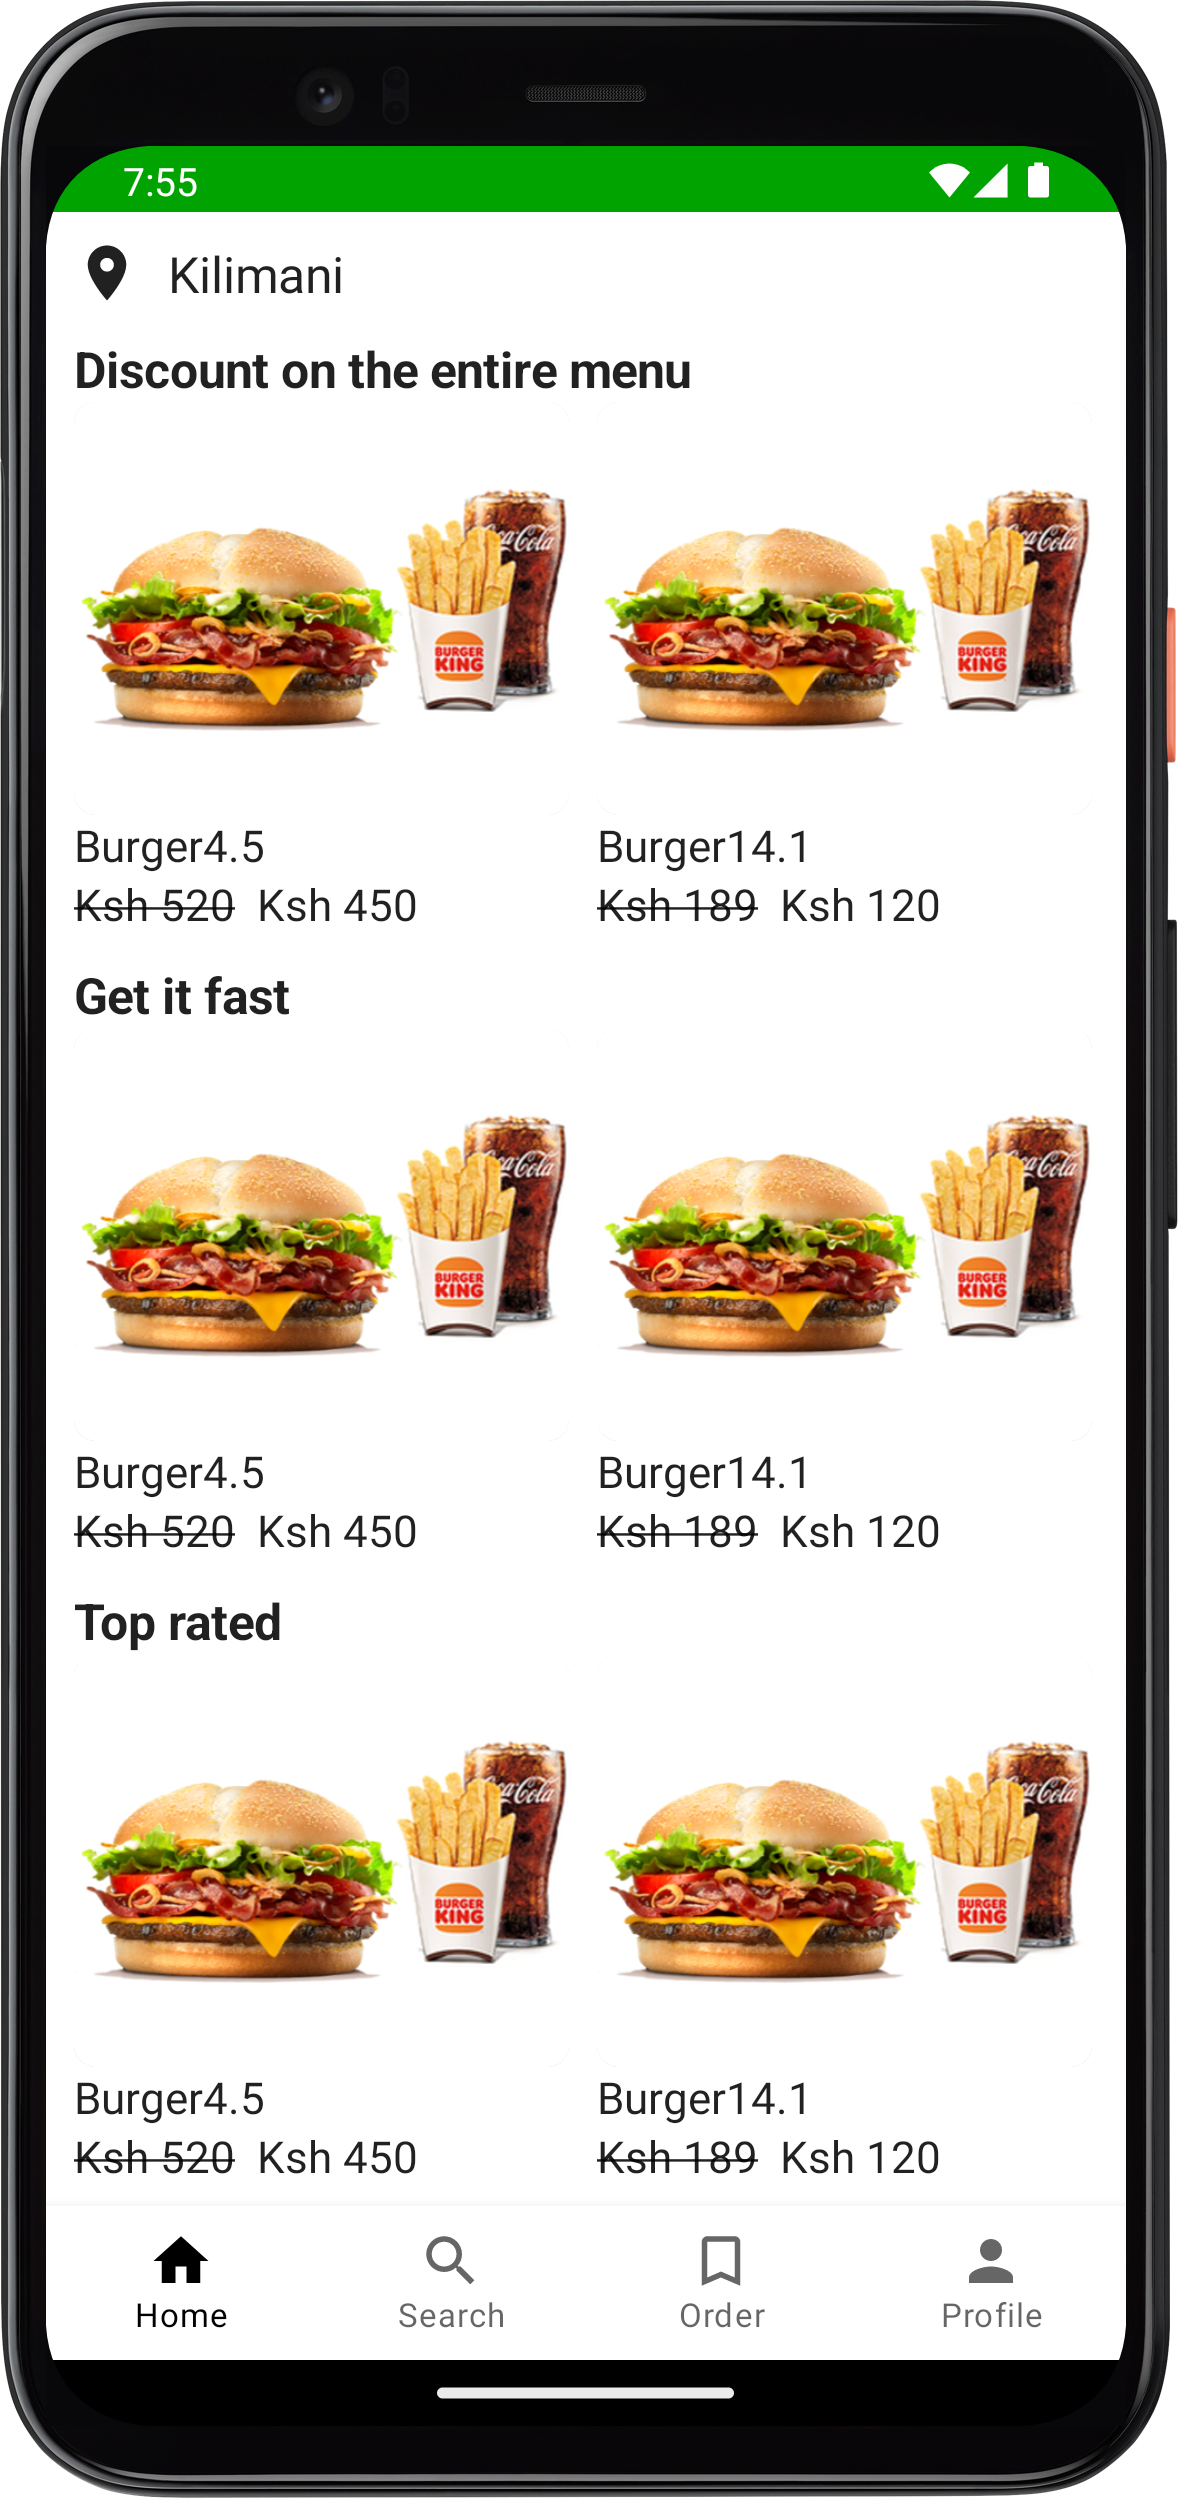
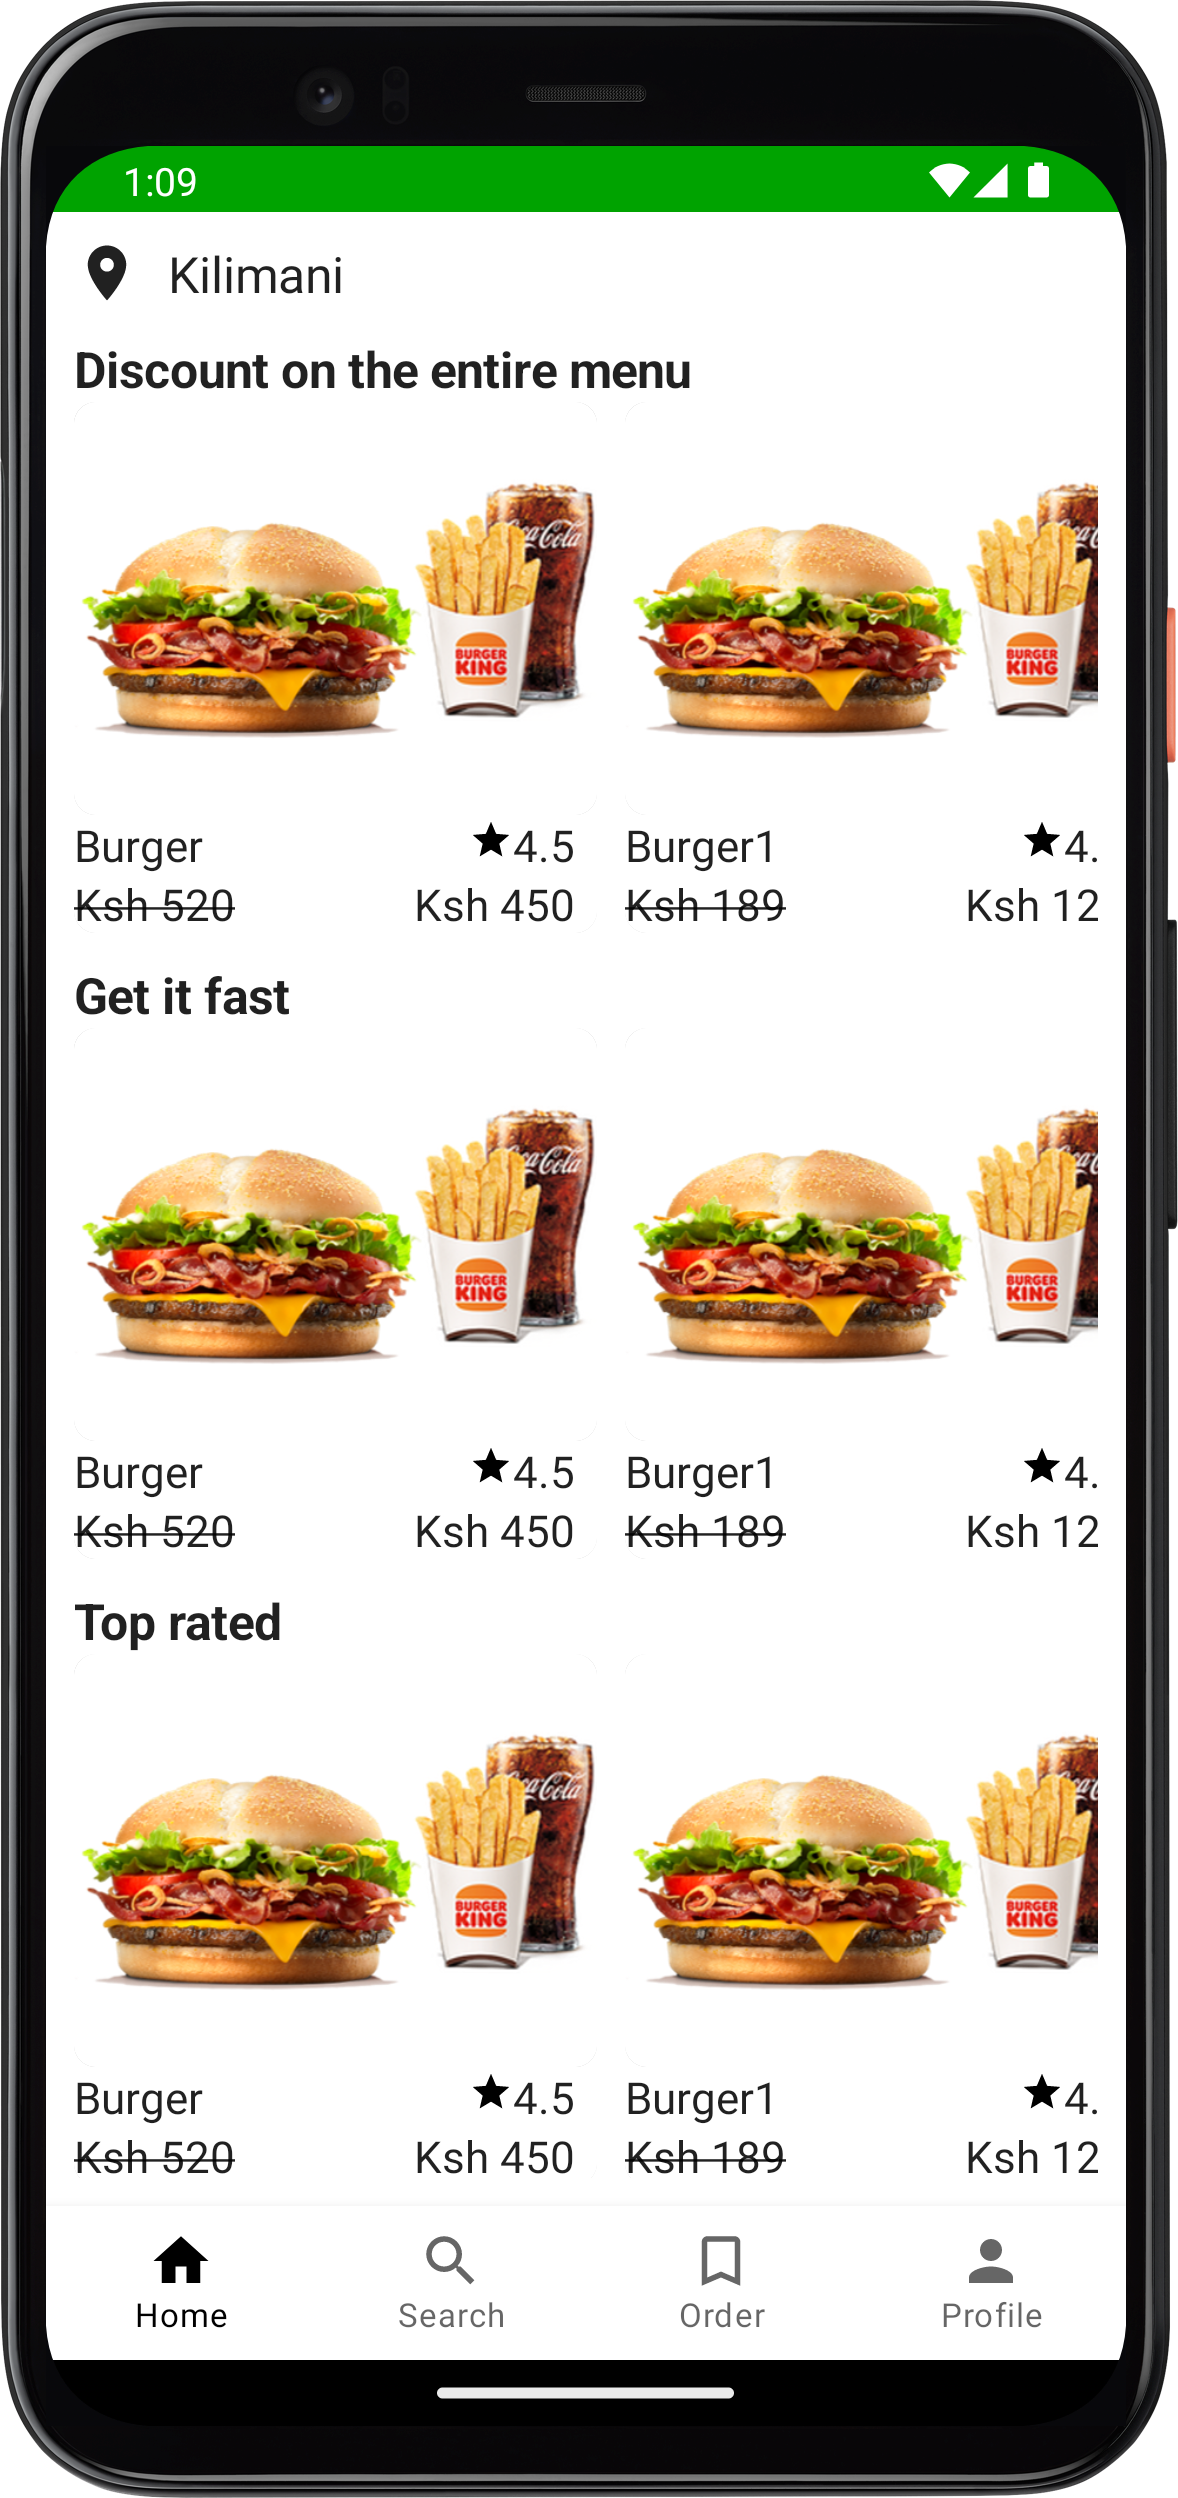
ui changes

diff --git a/app/src/main/java/com/flexcode/boltfood/screens/home/HomeScreen.kt b/app/src/main/java/com/flexcode/boltfood/screens/home/HomeScreen.kt
@@ -1,25 +1,36 @@
 package com.flexcode.boltfood.screens.home
 
 import androidx.compose.foundation.Image
+import androidx.compose.foundation.background
 import androidx.compose.foundation.layout.*
 import androidx.compose.foundation.lazy.LazyColumn
 import androidx.compose.foundation.lazy.LazyRow
 import androidx.compose.foundation.lazy.items
 import androidx.compose.foundation.rememberScrollState
 import androidx.compose.foundation.shape.RoundedCornerShape
+import androidx.compose.foundation.text.InlineTextContent
+import androidx.compose.foundation.text.appendInlineContent
 import androidx.compose.foundation.verticalScroll
 import androidx.compose.material.Card
 import androidx.compose.material.Icon
 import androidx.compose.material.Text
+import androidx.compose.material.icons.Icons
+import androidx.compose.material.icons.filled.Face
+import androidx.compose.material.icons.filled.Star
 import androidx.compose.runtime.Composable
 import androidx.compose.ui.Modifier
 import androidx.compose.ui.draw.clip
+import androidx.compose.ui.graphics.Color
 import androidx.compose.ui.res.painterResource
+import androidx.compose.ui.text.Placeholder
+import androidx.compose.ui.text.PlaceholderVerticalAlign
 import androidx.compose.ui.text.TextStyle
+import androidx.compose.ui.text.buildAnnotatedString
 import androidx.compose.ui.text.font.FontWeight
 import androidx.compose.ui.text.style.TextAlign
 import androidx.compose.ui.text.style.TextDecoration
 import androidx.compose.ui.tooling.preview.Preview
+import androidx.compose.ui.unit.TextUnit
 import androidx.compose.ui.unit.dp
 import androidx.compose.ui.unit.sp
 import com.flexcode.boltfood.R
@@ -40,7 +51,7 @@ fun HomeScreen() {
         Row(
             modifier = Modifier.fillMaxWidth()
         ) {
-            Icon(painterResource(id =R.drawable.ic_location ), contentDescription = null)
+            Icon(painterResource(id = R.drawable.ic_location), contentDescription = null)
             Spacer(modifier = Modifier.width(10.dp))
             Text(
                 text = "Kilimani",
@@ -53,19 +64,7 @@ fun HomeScreen() {
             fontSize = 18.sp,
             fontWeight = FontWeight.Bold
         )
-        LazyRow(
-            horizontalArrangement = Arrangement.spacedBy(10.dp)
-        ){
-            items(foodList){ item->
-                Row(
-                    modifier = Modifier.fillMaxWidth()
-                ) {
-                    ShowFoodItem(foodItem = item)
-                }
-
-            }
-
-        }
+        LazyRowItem()
 
 
         Spacer(modifier = Modifier.height(10.dp))
@@ -74,20 +73,7 @@ fun HomeScreen() {
             fontSize = 18.sp,
             fontWeight = FontWeight.Bold
         )
-        LazyRow(
-            horizontalArrangement = Arrangement.spacedBy(10.dp)
-        ){
-            items(foodList){ item->
-                Row(
-                    modifier = Modifier.fillMaxWidth()
-                ) {
-                    ShowFoodItem(foodItem = item)
-                }
-
-            }
-
-        }
-
+        LazyRowItem()
 
         Spacer(modifier = Modifier.height(10.dp))
 
@@ -97,19 +83,7 @@ fun HomeScreen() {
             fontWeight = FontWeight.Bold
         )
 
-        LazyRow(
-            horizontalArrangement = Arrangement.spacedBy(10.dp)
-        ){
-            items(foodList){ item->
-                Row(
-                    modifier = Modifier.fillMaxWidth()
-                ) {
-                    ShowFoodItem(foodItem = item)
-                }
-
-            }
-
-        }
+        LazyRowItem()
 
 
         Spacer(modifier = Modifier.height(10.dp))
@@ -118,19 +92,7 @@ fun HomeScreen() {
             fontSize = 18.sp,
             fontWeight = FontWeight.Bold
         )
-        LazyRow(
-            horizontalArrangement = Arrangement.spacedBy(10.dp)
-        ){
-            items(foodList){ item->
-                Row(
-                    modifier = Modifier.fillMaxWidth()
-                ) {
-                    ShowFoodItem(foodItem = item)
-                }
-
-            }
-
-        }
+        LazyRowItem()
 
 
         Spacer(modifier = Modifier.height(10.dp))
@@ -139,25 +101,13 @@ fun HomeScreen() {
             fontSize = 18.sp,
             fontWeight = FontWeight.Bold
         )
-        LazyRow(
-            horizontalArrangement = Arrangement.spacedBy(10.dp)
-        ){
-            items(foodList){ item->
-                Row(
-                    modifier = Modifier.fillMaxWidth()
-                ) {
-                    ShowFoodItem(foodItem = item)
-                }
-
-            }
-
-        }
+        LazyRowItem()
 
         LazyColumn(
             Modifier.height(500.dp),
             verticalArrangement = Arrangement.spacedBy(10.dp)
-        ){
-            items(foodList){ item->
+        ) {
+            items(foodList) { item ->
                 Row(
                     modifier = Modifier.fillMaxWidth()
                 ) {
@@ -168,8 +118,6 @@ fun HomeScreen() {
             }
 
         }
-
-
     }
 }
 
@@ -177,58 +125,110 @@ fun HomeScreen() {
 fun ShowFoodItem(
     foodItem: FoodItem
 ) {
-    Column() {
+    Card(
+        modifier = Modifier
+            .clip(RoundedCornerShape(8.dp))
+            .width(190.dp),
+                elevation = 4.dp
 
-        Card(
-            modifier =Modifier
-                .clip(RoundedCornerShape(8.dp)),
-            elevation = 4.dp
+    ) {
+        Column(
+            modifier = Modifier
+                .fillMaxWidth()
+                .clip(RoundedCornerShape(8.dp))
 
         ) {
-            Image(
-                painter = painterResource(id = foodItem.foodImage),
+            Card(
                 modifier = Modifier
-                    .width(180.dp)
-                    .height(150.dp),
-                contentDescription = null
-            )
+                    .clip(RoundedCornerShape(8.dp))
+
+            ) {
+                Image(
+                    painter = painterResource(id = foodItem.foodImage),
+                    modifier = Modifier
+                        .fillMaxWidth()
+                        .height(150.dp),
+                    contentDescription = null
+                )
+            }
+            Row(
+                modifier = Modifier.fillMaxWidth()
+            ) {
+                Text(
+                    text = foodItem.name,
+                    fontSize = 16.sp,
+                    modifier = Modifier.width(90.dp)
+                )
+                Spacer(modifier = Modifier.weight(1f))
+                val myId = "inlineContent"
+                val text = buildAnnotatedString {
+                    appendInlineContent(myId, "[icon]")
+                    append(foodItem.rating)
+
+                }
+
+                val inlineContent = mapOf(
+                    Pair(
+                        myId,
+                        InlineTextContent(
+                            Placeholder(
+                                width = 16.sp,
+                                height = 16.sp,
+                                placeholderVerticalAlign = PlaceholderVerticalAlign.AboveBaseline
+                            )
+                        ) {
+                            Icon(Icons.Filled.Star, "", tint = Color.Black)
+                        }
+                    )
+                )
+                Text(
+                    inlineContent = inlineContent,
+                    text = text,
+                    fontSize = 16.sp,
+                    textAlign = TextAlign.End,
+                    modifier = Modifier.width(90.dp)
+                        .padding(horizontal = 8.dp)
+                )
+            }
+            Row(
+                modifier = Modifier.fillMaxWidth(),
+                horizontalArrangement = Arrangement.SpaceAround
+            ) {
+                Text(
+                    text = foodItem.canceledPrice,
+                    fontSize = 16.sp,
+                    style = TextStyle(textDecoration = TextDecoration.LineThrough),
+                    modifier = Modifier.width(90.dp)
+                )
+
+                Spacer(modifier = Modifier.weight(1f))
+
+                Text(
+                    text = foodItem.price,
+                    fontSize = 16.sp,
+                    textAlign = TextAlign.End,
+                    modifier = Modifier
+                        .padding(horizontal = 8.dp)
+                        .width(90.dp)
+                )
+            }
         }
-        Row(
-            modifier = Modifier.fillMaxWidth()
-        ) {
-            Text(
-                text = foodItem.name,
-                fontSize = 16.sp,
-            )
-            Spacer(modifier = Modifier.weight(1f))
-            Text(
-                text = foodItem.rating,
-                fontSize = 16.sp,
-            )
-        }
-        Row(
-            modifier = Modifier.fillMaxWidth(),
-            horizontalArrangement = Arrangement.SpaceAround
-        ) {
-            Text(
-                text = foodItem.canceledPrice,
-                fontSize = 16.sp,
-                style = TextStyle(textDecoration = TextDecoration.LineThrough)
-            )
-
-            Spacer(modifier = Modifier.weight(1f))
-
-            Text(
-                text = foodItem.price,
-                fontSize = 16.sp,
-                textAlign = TextAlign.End,
-                modifier = Modifier.padding(horizontal = 8.dp)
-
-            )
-        }
-
     }
+}
 
+@Composable
+fun LazyRowItem() {
+    LazyRow(
+        horizontalArrangement = Arrangement.spacedBy(10.dp)
+    ) {
+        items(foodList) { item ->
+            Row(
+                modifier = Modifier.fillMaxWidth()
+            ) {
+                ShowFoodItem(foodItem = item)
+            }
+        }
+    }
 }
 
 @Preview(showBackground = true)
@@ -237,3 +237,4 @@ fun HomeScreenPreview(
 ) {
     HomeScreen()
 }
+

diff --git a/app/src/main/java/com/flexcode/boltfood/screens/search/SearchScreen.kt b/app/src/main/java/com/flexcode/boltfood/screens/search/SearchScreen.kt
@@ -1,6 +1,7 @@
 package com.flexcode.boltfood.screens.search
 
 import androidx.compose.foundation.Image
+import androidx.compose.foundation.background
 import androidx.compose.foundation.layout.*
 import androidx.compose.foundation.lazy.LazyColumn
 import androidx.compose.foundation.lazy.items
@@ -116,7 +117,8 @@ fun ShowCategoryItem(
             modifier = Modifier
                 .width(50.dp)
                 .height(50.dp)
-                .clip(CircleShape),
+                .clip(CircleShape)
+                .background(LightBlue),
             contentDescription = null
         )
         Text(
